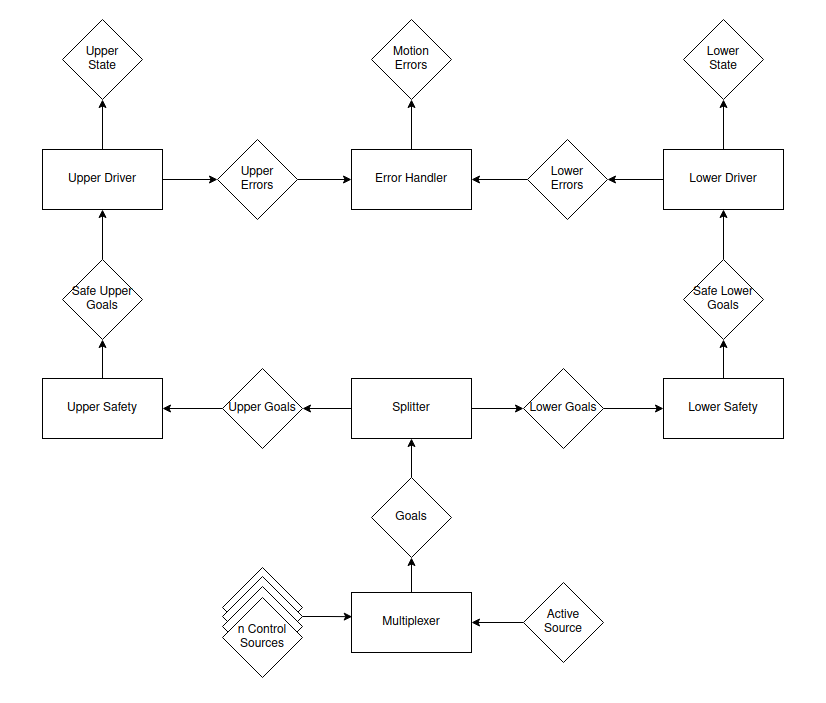
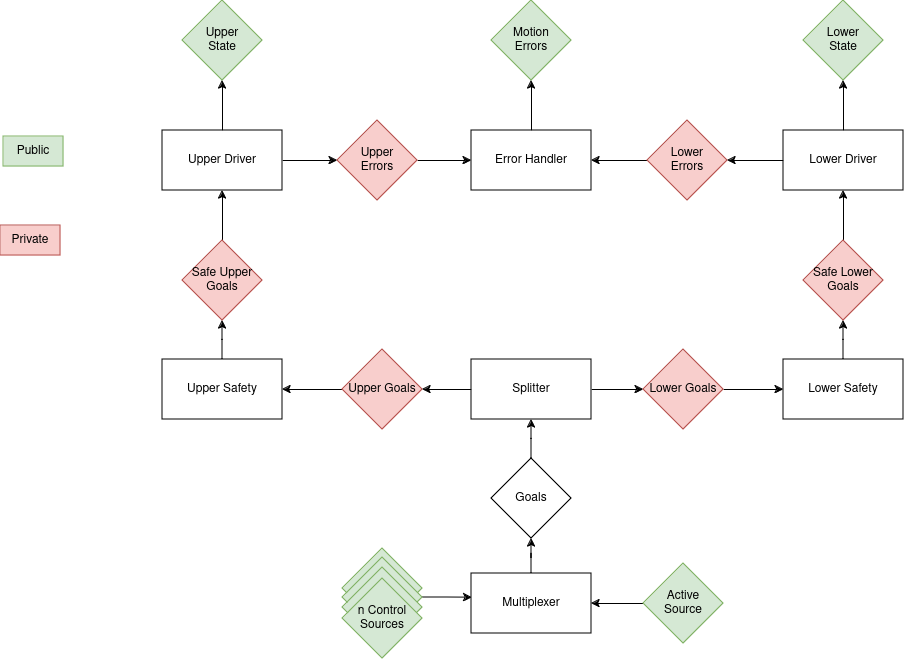
Docs update

diff --git a/documentation/telebot/subsystems/motion.md b/documentation/telebot/subsystems/motion.md
@@ -1,1 +1,48 @@
 ![The design document for the motion system](../../imgs/motion_system_design.png)
+
+**Note:** At the time of writing this documentation, not all nodes are written for the motion subsystem. Specifically, the Upper Safety, Lower Safety, Lower Driver, and Error Handler nodes are not yet implemented.
+
+## High-level Overview
+Control Sources provide the goal positions OR goal velocities for each motor on the TeleBot. Multiple control sources exist, and they are selected from by the Multiplexer node based on the "Active Source" topic. The Active Source topic selects from a group of predefined control sources in a configuration file.
+
+Next, the Splitter uses the IDs of the motors and a config file to determine what topics to map them to (Upper or Lower). Upper and Lower Safety seek to ensure that the robot stays in valid positions (i.e. not colliding with itself). The Upper Driver handles port access and reading and writing to the U2D2 that controls the motors on the torso. The Lower Driver handles port access and reading and writing to the motor drivers and the U2D2 on the Base.
+
+The goal of the Error Handler consolidates error messages from both drivers and provides a common format for reporting them.
+
+## Multiplexer
+
+### Configuration
+There are two config files for the multiplexer:
+```
+.ctrlsrcs  // This name is important, DO NOT CHANGE
+multiplexer_config.yaml
+```
+
+`.ctrlsrcs` path is specified in the `multiplexer_config.yaml` ***(NOTE: Need to implement)***. `multiplexer_config.yaml` should be passed in as a params file when running the node using ROS.
+
+`.ctrlsrcs` is a custom file type that defines the control source groups available to the multiplexer. The format for the file is:
+```
+<name>: <topic_1> <topic_2> ... <topic_n>
+```
+*Note: the file might be white space sensitive, not sure*
+
+The multiplexer config file contains 2 string parameters `default_source` and a `control_sources_path` and a list of ints parameter `invert_motor_goal_ids`. Default source denotes which source from your `.ctrlsrcs` file will be used on startup. `invert_motor_goal_ids` denotes motor ids whose goals should be inverted (meaning, multiplied by -1) to maintain understandable control of the TeleBot. *Note: Don't change this unless you know what you're doing*
+
+### Selecting a control source
+Control sources are swapped between using the "Active Source" topic. The "Active Source" topic uses a String message containing the name of the control source to switch to.
+
+See Configuration for setting a default control source.
+
+## Upper Driver
+*Note: this is a complex node*
+### Configuration
+The Upper Driver uses a single configuration file:
+``` 
+driver_upper_config.yaml
+```
+The `driver_upper_config.yaml` should be passed as a params file when running the Upper Driver node.
+
+The `pro_motors` and `xm_motors` hold the ids of the dynamixel motors on the torso. The `usb_device` holds the serial id of the U2D2 that controls the dynamixels. This value can be found using commands in Ubuntu, and lets the Upper Driver always connect to the correct U2D2. The `usb_baudrate` is preset to work with the dynamixel motors.
+
+### Implementation
+The implementation is split into two parts: a ROS2-based `driver_upper.cpp` node and a ROS-agnostic `dynamixel_driver.hpp`.
